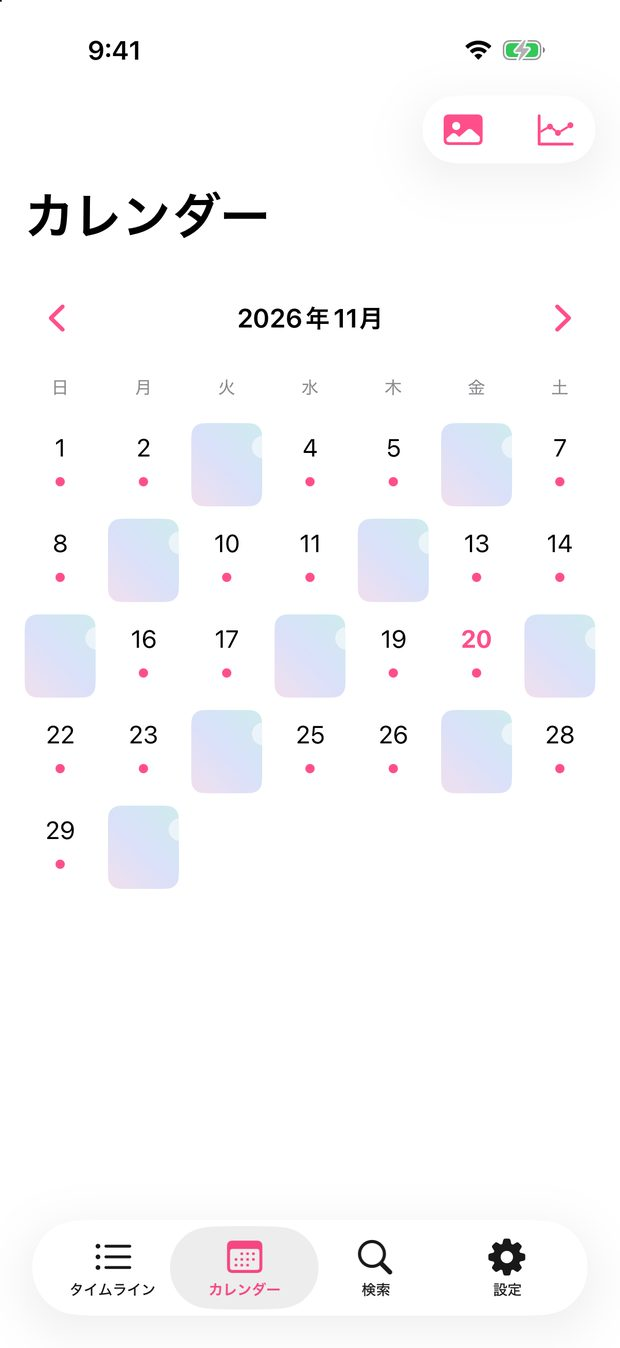
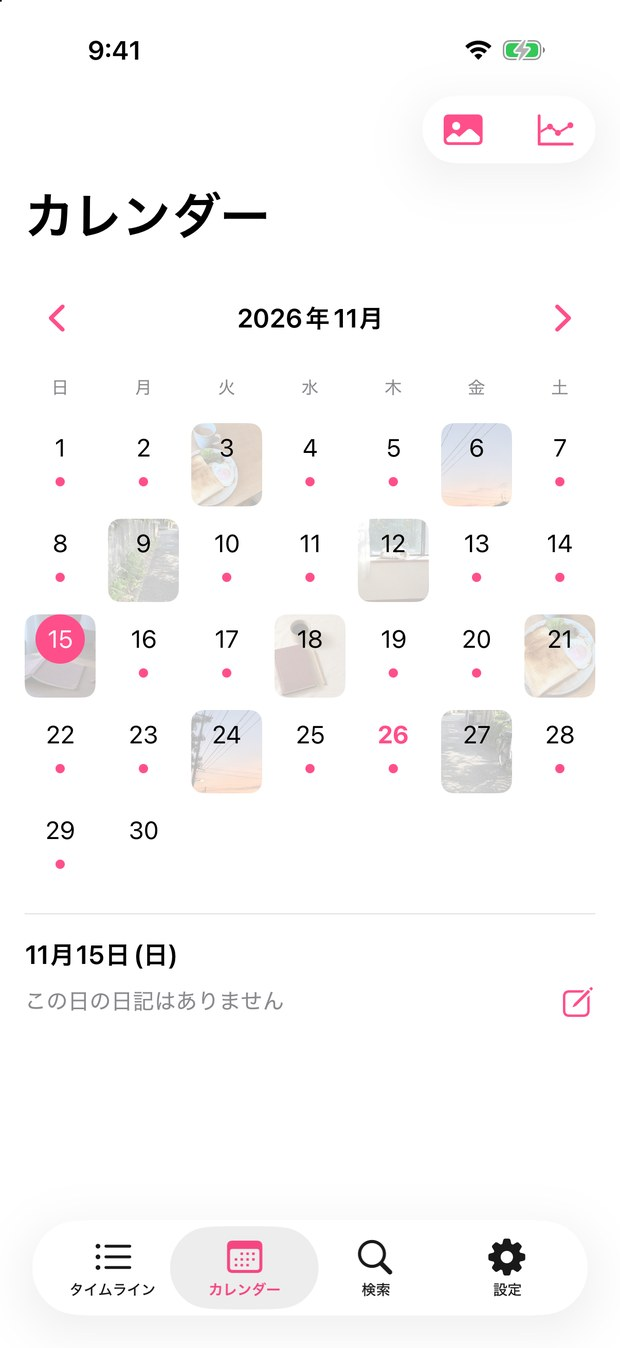
ファーストビューをカレンダーにし、下部の固定バーをやめる
「その日に撮った写真から書き始められる」が最初の画面で伝わるようにする。

- ヒーローをタイムラインからカレンダーに差し替え。日記のない日に、その日
  撮った写真が薄く出ている状態を撮り直した（これまでの画像はサンプル写真の
  サムネイルで、この機能は写っていなかった）
- カレンダーの節も、日記のない日を選んだ状態の新しい画像に差し替え
- ヒーローの説明を「その日に撮った写真を見ながら、書きたい日に、ひとことから。」に
- 下部の固定ダウンロードバーを削除。常に出ているのが煩わしいため。
  App Store ボタンは冒頭と末尾に残る
- 「連続日数を数えたり、記録を急かしたりはしません」を「毎日書かなくても、
  自分のペースで続けられます」に。ウィジェットが「今月書いた日数」を出すので
  紛らわしかった

diff --git a/diary/index.html b/diary/index.html
@@ -33,7 +33,6 @@
     color: var(--ink);
     line-height: 1.9;
     -webkit-font-smoothing: antialiased;
-    padding-bottom: 86px;
   }
   img { max-width: 100%; height: auto; display: block; }
   a { color: var(--wine); }
@@ -111,16 +110,6 @@
   footer nav { display: flex; gap: 20px; justify-content: center; flex-wrap: wrap; margin-bottom: 18px; }
   footer a { color: var(--ink-soft); }
 
-  .sticky { position: fixed; left: 0; right: 0; bottom: 0; background: rgba(247, 243, 236, .94);
-            backdrop-filter: saturate(180%) blur(12px); border-top: 1px solid var(--line); z-index: 20; }
-  .sticky .wrap { display: flex; align-items: center; justify-content: space-between; gap: 16px; padding-top: 12px; padding-bottom: 12px; }
-  .sticky img { width: 44px; height: 44px; border-radius: 11px; }
-  .sticky .who { display: flex; align-items: center; gap: 12px; min-width: 0; }
-  .sticky b { font-size: .95rem; }
-  .sticky small { display: block; color: var(--ink-soft); font-size: .78rem; font-weight: 400; }
-  .sticky .badge { margin-top: 0; flex: 0 0 auto; }
-  .sticky .badge img { height: 42px; }
-
   @media (max-width: 860px) {
     .hero { grid-template-columns: minmax(0, 1fr); gap: 30px; padding: 12px 24px 56px; }
     .hero-shot img { width: 240px; }
@@ -131,9 +120,6 @@
     .concept { grid-template-columns: minmax(0, 1fr); gap: 30px; }
     .concept .photo { order: 2; }
     .roll { grid-template-columns: minmax(0, 1fr) minmax(0, 1fr); }
-    .sticky small { display: none; }
-    .sticky .who { flex: 1 1 auto; overflow: hidden; }
-    .sticky b { display: block; white-space: nowrap; overflow: hidden; text-overflow: ellipsis; }
   }
 </style>
 </head>
@@ -151,13 +137,13 @@
       <b>日記 - 今日を残すノート<small>iPhone / iPad ・ 無料</small></b>
     </div>
     <h1>今日を、<span>気楽に残す。</span></h1>
-    <p class="lead">本文だけ書いて閉じても日記になります。カレンダーには、その日に撮った写真が薄く表示されるので、あとから書くときも思い出しやすくなっています。</p>
+    <p class="lead">その日に撮った写真を見ながら、書きたい日に、ひとことから。</p>
     <a class="badge" href="https://apps.apple.com/jp/app/id6787248759">
       <img src="appstore-badge-ja.svg" alt="App Store からダウンロード" width="147" height="54">
     </a>
   </div>
   <div class="hero-shot">
-    <img src="shot-1.jpg" alt="日記がならぶタイムライン画面" width="620" height="1348">
+    <img src="shot-1.jpg" alt="まだ日記のない日に、その日に撮った写真が薄く表示されたカレンダー画面" width="620" height="1348">
   </div>
 </header>
 
@@ -176,7 +162,7 @@
   <div class="wrap notes">
     <div class="note">
       <h3>自分のペースで<span>続けられます。</span></h3>
-      <p>気が向いた日に開いて、書きたいぶんだけ書けば十分です。連続日数を数えたり、記録を急かしたりはしません。月に数日ずつでも、並べて読み返せば、ちゃんとその一年の記録になります。</p>
+      <p>毎日書かなくても、自分のペースで続けられます。気が向いた日に開いて、書きたいぶんだけ書けば十分です。月に数日ずつでも、並べて読み返せば、ちゃんとその一年の記録になります。</p>
     </div>
     <div class="note">
       <h3>写真から、<span>思い出せます。</span></h3>
@@ -204,7 +190,7 @@
 
 <section class="band">
   <div class="wrap split reverse">
-    <div class="shot"><img src="shot-3.jpg" alt="カレンダー画面" width="620" height="1348"></div>
+    <div class="shot"><img src="shot-3.jpg" alt="日記のない日を選び、その日の写真から書きはじめるところ" width="620" height="1348"></div>
     <div>
       <h2>まだ書いていない日に、<br>その日の写真が出ます。</h2>
       <p class="sub">カレンダーでは、まだ日記のない日にその日撮った写真が薄く表示されます。見覚えのある一枚が目に入れば、記憶はあっさり戻ってきます。編集画面でも、その日の写真から直接選んで本文に入れられます。もちろん設定でオフにできます。</p>
@@ -317,17 +303,6 @@
   <p>&copy; 2026 T.K Apps</p>
 </footer>
 
-<div class="sticky">
-  <div class="wrap">
-    <div class="who">
-      <img src="icon.png" alt="">
-      <b>日記 - 今日を残すノート<small>iPhone / iPad ・ 無料</small></b>
-    </div>
-    <a class="badge" href="https://apps.apple.com/jp/app/id6787248759">
-      <img src="appstore-badge-ja.svg" alt="App Store からダウンロード" width="114" height="42">
-    </a>
-  </div>
-</div>
 
 </body>
 </html>

diff --git a/diary/index-en.html b/diary/index-en.html
@@ -33,7 +33,6 @@
     color: var(--ink);
     line-height: 1.9;
     -webkit-font-smoothing: antialiased;
-    padding-bottom: 86px;
   }
   img { max-width: 100%; height: auto; display: block; }
   a { color: var(--wine); }
@@ -111,16 +110,6 @@
   footer nav { display: flex; gap: 20px; justify-content: center; flex-wrap: wrap; margin-bottom: 18px; }
   footer a { color: var(--ink-soft); }
 
-  .sticky { position: fixed; left: 0; right: 0; bottom: 0; background: rgba(247, 243, 236, .94);
-            backdrop-filter: saturate(180%) blur(12px); border-top: 1px solid var(--line); z-index: 20; }
-  .sticky .wrap { display: flex; align-items: center; justify-content: space-between; gap: 16px; padding-top: 12px; padding-bottom: 12px; }
-  .sticky img { width: 44px; height: 44px; border-radius: 11px; }
-  .sticky .who { display: flex; align-items: center; gap: 12px; min-width: 0; }
-  .sticky b { font-size: .95rem; }
-  .sticky small { display: block; color: var(--ink-soft); font-size: .78rem; font-weight: 400; }
-  .sticky .badge { margin-top: 0; flex: 0 0 auto; }
-  .sticky .badge img { height: 42px; }
-
   @media (max-width: 860px) {
     .hero { grid-template-columns: minmax(0, 1fr); gap: 30px; padding: 12px 24px 56px; }
     .hero-shot img { width: 240px; }
@@ -131,9 +120,6 @@
     .concept { grid-template-columns: minmax(0, 1fr); gap: 30px; }
     .concept .photo { order: 2; }
     .roll { grid-template-columns: minmax(0, 1fr) minmax(0, 1fr); }
-    .sticky small { display: none; }
-    .sticky .who { flex: 1 1 auto; overflow: hidden; }
-    .sticky b { display: block; white-space: nowrap; overflow: hidden; text-overflow: ellipsis; }
   }
 </style>
 </head>
@@ -152,13 +138,13 @@
       <b>Daily Journal - My Diary<small>iPhone / iPad &middot; Free</small></b>
     </div>
     <h1>An easy place<br><span>to keep today.</span></h1>
-    <p class="lead">Write the body, close it, and it&rsquo;s an entry. The calendar shows the photo you took that day, so catching up later is easy too.</p>
+    <p class="lead">Look at the photos you took that day, and write a line on the days you want to.</p>
     <a class="badge" href="https://apps.apple.com/app/id6787248759">
       <img src="appstore-badge-en.svg" alt="Download on the App Store" width="162" height="54">
     </a>
   </div>
   <div class="hero-shot">
-    <img src="shot-en-1.jpg" alt="Timeline of diary entries" width="620" height="1348">
+    <img src="shot-en-1.jpg" alt="Calendar showing that day&rsquo;s photo faintly on days with no entry" width="620" height="1348">
   </div>
 </header>
 
@@ -177,7 +163,7 @@
   <div class="wrap notes">
     <div class="note">
       <h3>Keep it at <span>your own pace.</span></h3>
-      <p>Open it when you feel like it and write as much as you want. Nothing counts a streak or pushes you to keep up. Even a few days a month add up to a record of your year once you read them back.</p>
+      <p>You don&rsquo;t have to write every day &mdash; keep it at whatever pace suits you. Open it when you feel like it and write as much as you want. Even a few days a month add up to a record of your year once you read them back.</p>
     </div>
     <div class="note">
       <h3>Photos help <span>you remember.</span></h3>
@@ -205,7 +191,7 @@
 
 <section class="band">
   <div class="wrap split reverse">
-    <div class="shot"><img src="shot-en-3.jpg" alt="Calendar view" width="620" height="1348"></div>
+    <div class="shot"><img src="shot-en-3.jpg" alt="Picking a day with no entry and starting from that day&rsquo;s photo" width="620" height="1348"></div>
     <div>
       <h2>Days with no entry<br>show that day&rsquo;s photo.</h2>
       <p class="sub">On days with no entry yet, the calendar shows the photo you took that day, faintly behind the date. One familiar shot and the memory comes back on its own. In the editor you can pick straight from that day's photos too. You can turn it off in Settings.</p>
@@ -318,17 +304,6 @@
   <p>&copy; 2026 T.K Apps</p>
 </footer>
 
-<div class="sticky">
-  <div class="wrap">
-    <div class="who">
-      <img src="icon.png" alt="">
-      <b>Daily Journal - My Diary<small>iPhone / iPad &middot; Free</small></b>
-    </div>
-    <a class="badge" href="https://apps.apple.com/app/id6787248759">
-      <img src="appstore-badge-en.svg" alt="Download on the App Store" width="126" height="42">
-    </a>
-  </div>
-</div>
 
 </body>
 </html>
